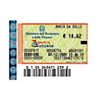
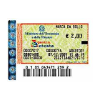
[IMP] l10n_account_stamp add manual mode
[FIX] 2 euro image file
[IMP] image on invoice to display stamp application
      and revert checkbox to previous position
[FIX] show button in draft edit mode only

Changed region(s): [[0.06, 0.18, 0.9, 0.81]]

diff --git a/l10n_it_account_stamp/static/description/index.html b/l10n_it_account_stamp/static/description/index.html
@@ -389,13 +389,29 @@ ul.auto-toc {
 <div class="section" id="configuration">
 <h1><a class="toc-backref" href="#id1">Configuration</a></h1>
 <p><strong>Italiano</strong></p>
-<p>Andare sul prodotto “Imposta di bollo 2 euro” e configurare “Imposte marca da bollo” (Imposte in esenzione).
-Impostare inoltre i conti di ricavo/costo nella scheda “Contabilità”, generalmente ricavo=”Debiti per bolli” e costo=”Valori bollati”.</p>
-<p>Per ciascuna fattura, l’applicabilità dell’imposta di bollo verrà calcolata in modo automatico in base alla somma degli imponibili relativi alle imposte selezionate.</p>
+<p>Modalità automatica:</p>
+<ul class="simple">
+<li>andare sul prodotto “Imposta di bollo 2 euro” e configurare “Imposte marca da bollo” (Imposte in esenzione).</li>
+<li>per ciascuna fattura, l’applicabilità dell’imposta di bollo verrà calcolata in modo automatico in base alla somma degli imponibili relativi alle imposte selezionate.</li>
+</ul>
+<p>Modalità manuale:</p>
+<ul class="simple">
+<li>andare sul prodotto “Imposta di bollo 2 euro” e deselezionare la casella “Calcolo automatico”.</li>
+<li>per ciascuna fattura, abilitare manualmente la casella di selezione “Imposta di bollo”.</li>
+</ul>
+<p>Impostare i conti di ricavo/costo nella scheda “Contabilità”, generalmente ricavo=”Debiti per bolli” e costo=”Valori bollati”.</p>
 <p><strong>English</strong></p>
-<p>Go to ‘Tax Stamp 2 euro’ product and configure ‘Stamp taxes’ (exemption taxes).
-Also set income/expense accounts, typically income = ‘Debiti per bolli’ and expense = ‘Valori bollati’.</p>
-<p>For each invoice, the base amount for each selected tax will be added up and used to determine the application of the account stamp.</p>
+<p>Automatic mode:</p>
+<ul class="simple">
+<li>Go to ‘Tax Stamp 2 euro’ product and configure ‘Stamp taxes’ (exemption taxes).</li>
+<li>For each invoice, the base amount for each selected tax will be added up and used to determine the application of the account stamp.</li>
+</ul>
+<p>Manual mode:</p>
+<ul class="simple">
+<li>Go to ‘Tax Stamp 2 euro’ product and deselect ‘Auto-compute’ checkbox.</li>
+<li>For each invoice, manually enable ‘Tax Stamp’ checkbox.</li>
+</ul>
+<p>Also set income/expense accounts, typically income = ‘Debiti per bolli’ and expense = ‘Valori bollati’.</p>
 </div>
 <div class="section" id="usage">
 <h1><a class="toc-backref" href="#id2">Usage</a></h1>

diff --git a/l10n_it_account_stamp/models/invoice.py b/l10n_it_account_stamp/models/invoice.py
@@ -7,6 +7,8 @@ class AccountInvoice(models.Model):
     _inherit = 'account.invoice'
     tax_stamp = fields.Boolean(
         "Tax Stamp", readonly=True, states={'draft': [('readonly', False)]})
+    auto_compute_stamp = fields.Boolean(
+        related='company_id.tax_stamp_product_id.auto_compute')
 
     def is_tax_stamp_applicable(self):
         stamp_product_id = self.env.user.with_context(
@@ -29,10 +31,8 @@ class AccountInvoice(models.Model):
 
     @api.onchange('tax_line_ids')
     def _onchange_tax_line_ids(self):
-        if self.is_tax_stamp_applicable():
-            self.tax_stamp = True
-        else:
-            self.tax_stamp = False
+        if self.auto_compute_stamp:
+            self.tax_stamp = self.is_tax_stamp_applicable()
 
     @api.multi
     def add_tax_stamp_line(self):

diff --git a/l10n_it_account_stamp/__manifest__.py b/l10n_it_account_stamp/__manifest__.py
@@ -7,7 +7,7 @@
 
 {
     'name': 'Italian Localization - Imposta di bollo',
-    'version': '12.0.1.0.3',
+    'version': '12.0.1.1.0',
     'category': 'Localization/Italy',
     'summary': "Gestione automatica dell'imposta di bollo",
     'author': 'Ermanno Gnan, Sergio Corato, Enrico Ganzaroli, '

diff --git a/l10n_it_account_stamp/models/product.py b/l10n_it_account_stamp/models/product.py
@@ -23,3 +23,4 @@ class ProductTemplate(models.Model):
         'Stamp applicability min total base',
         digits=dp.get_precision('Account'))
     is_stamp = fields.Boolean('Is a stamp')
+    auto_compute = fields.Boolean('Auto-compute')

diff --git a/l10n_it_account_stamp/README.rst b/l10n_it_account_stamp/README.rst
@@ -43,17 +43,35 @@ Configuration
 
 **Italiano**
 
-Andare sul prodotto "Imposta di bollo 2 euro" e configurare "Imposte marca da bollo" (Imposte in esenzione).
-Impostare inoltre i conti di ricavo/costo nella scheda "Contabilità", generalmente ricavo="Debiti per bolli" e costo="Valori bollati".
+Modalità automatica:
 
-Per ciascuna fattura, l'applicabilità dell'imposta di bollo verrà calcolata in modo automatico in base alla somma degli imponibili relativi alle imposte selezionate.
+- andare sul prodotto "Imposta di bollo 2 euro" e configurare "Imposte marca da bollo" (Imposte in esenzione).
+
+- per ciascuna fattura, l'applicabilità dell'imposta di bollo verrà calcolata in modo automatico in base alla somma degli imponibili relativi alle imposte selezionate.
+
+Modalità manuale:
+
+- andare sul prodotto "Imposta di bollo 2 euro" e deselezionare la casella "Calcolo automatico".
+
+- per ciascuna fattura, abilitare manualmente la casella di selezione "Imposta di bollo".
+
+Impostare i conti di ricavo/costo nella scheda "Contabilità", generalmente ricavo="Debiti per bolli" e costo="Valori bollati".
 
 **English**
 
-Go to 'Tax Stamp 2 euro' product and configure 'Stamp taxes' (exemption taxes).
-Also set income/expense accounts, typically income = 'Debiti per bolli' and expense = 'Valori bollati'.
+Automatic mode:
 
-For each invoice, the base amount for each selected tax will be added up and used to determine the application of the account stamp.
+- Go to 'Tax Stamp 2 euro' product and configure 'Stamp taxes' (exemption taxes).
+
+- For each invoice, the base amount for each selected tax will be added up and used to determine the application of the account stamp.
+
+Manual mode:
+
+- Go to 'Tax Stamp 2 euro' product and deselect 'Auto-compute' checkbox.
+
+- For each invoice, manually enable 'Tax Stamp' checkbox.
+
+Also set income/expense accounts, typically income = 'Debiti per bolli' and expense = 'Valori bollati'.
 
 Usage
 =====

diff --git a/l10n_it_account_stamp/readme/CONFIGURE.rst b/l10n_it_account_stamp/readme/CONFIGURE.rst
@@ -1,13 +1,31 @@
 **Italiano**
 
-Andare sul prodotto "Imposta di bollo 2 euro" e configurare "Imposte marca da bollo" (Imposte in esenzione).
-Impostare inoltre i conti di ricavo/costo nella scheda "Contabilità", generalmente ricavo="Debiti per bolli" e costo="Valori bollati".
+Modalità automatica:
 
-Per ciascuna fattura, l'applicabilità dell'imposta di bollo verrà calcolata in modo automatico in base alla somma degli imponibili relativi alle imposte selezionate.
+- andare sul prodotto "Imposta di bollo 2 euro" e configurare "Imposte marca da bollo" (Imposte in esenzione).
+
+- per ciascuna fattura, l'applicabilità dell'imposta di bollo verrà calcolata in modo automatico in base alla somma degli imponibili relativi alle imposte selezionate.
+
+Modalità manuale:
+
+- andare sul prodotto "Imposta di bollo 2 euro" e deselezionare la casella "Calcolo automatico".
+
+- per ciascuna fattura, abilitare manualmente la casella di selezione "Imposta di bollo".
+
+Impostare i conti di ricavo/costo nella scheda "Contabilità", generalmente ricavo="Debiti per bolli" e costo="Valori bollati".
 
 **English**
 
-Go to 'Tax Stamp 2 euro' product and configure 'Stamp taxes' (exemption taxes).
-Also set income/expense accounts, typically income = 'Debiti per bolli' and expense = 'Valori bollati'.
+Automatic mode:
 
-For each invoice, the base amount for each selected tax will be added up and used to determine the application of the account stamp.
+- Go to 'Tax Stamp 2 euro' product and configure 'Stamp taxes' (exemption taxes).
+
+- For each invoice, the base amount for each selected tax will be added up and used to determine the application of the account stamp.
+
+Manual mode:
+
+- Go to 'Tax Stamp 2 euro' product and deselect 'Auto-compute' checkbox.
+
+- For each invoice, manually enable 'Tax Stamp' checkbox.
+
+Also set income/expense accounts, typically income = 'Debiti per bolli' and expense = 'Valori bollati'.
